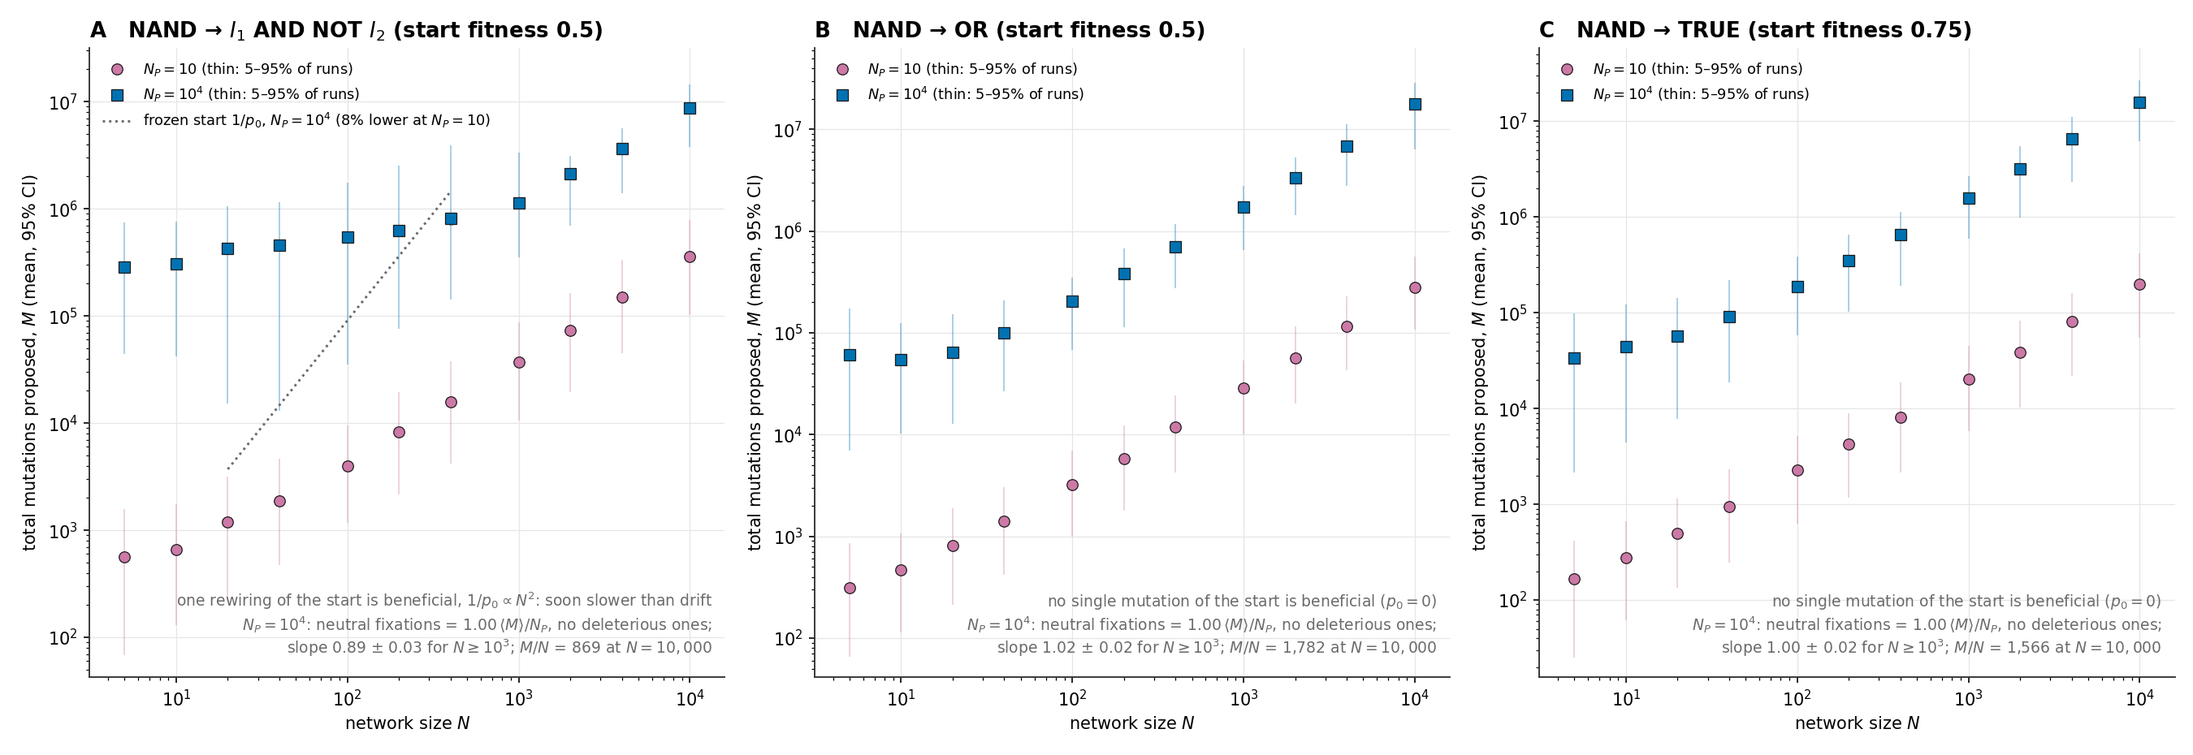
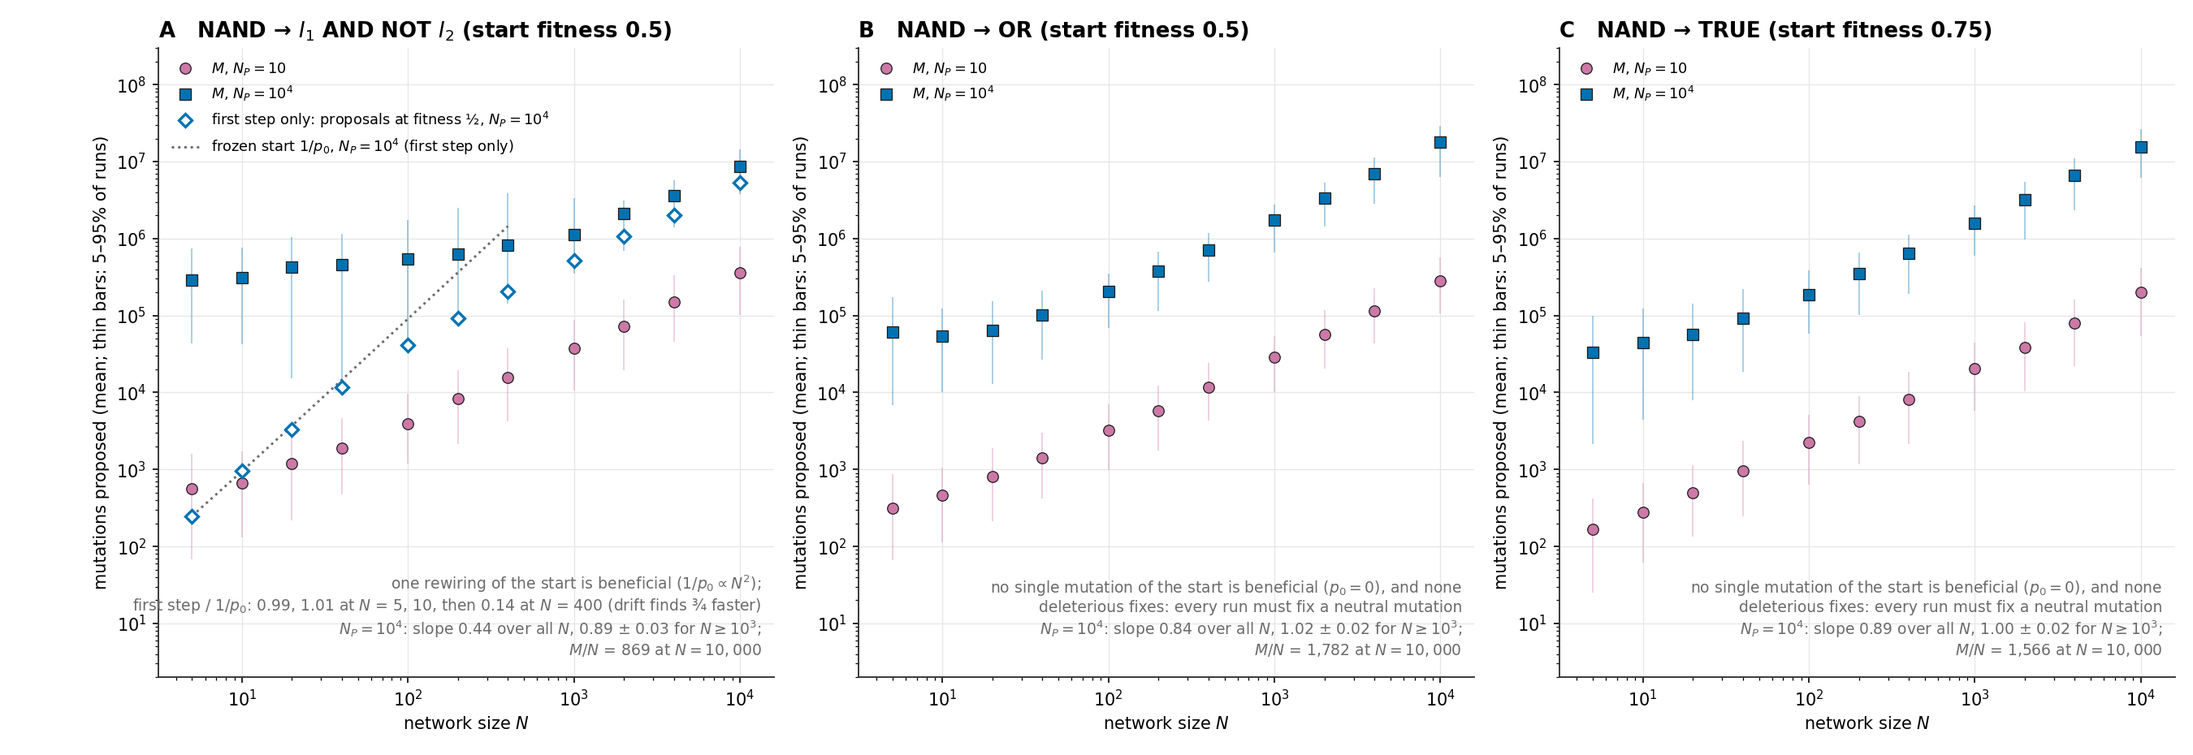
adversarial review 3: S3 compares frozen-start 1/p0 with the first step only (matches at N <= 10, 0.14x by N = 400); neutral-fixation ratio demoted to an identity; plain CIs with a binomial miss allowance; rw_cycle.py; S1/S3 wording and numbers corrected (32/32)

diff --git a/paper_replication/checks.py b/paper_replication/checks.py
@@ -33,14 +33,17 @@ def slope(r, lo, hi):
     return np.polyfit(np.log(r[m, 0]), np.log(r[m, 1]), 1)[0] if m.sum() >= 3 else np.nan
 
 
-def near(r, theory, rel):
-    """Every row: theory inside the CI widened by rel (relative)."""
+def near(r, theory):
+    """Theory against the plain 95% CI of every row. With n rows, ~5% miss by chance:
+    pass if the misses are no more than a Binomial(n, 0.05) count exceeds with p < 0.01."""
+    from scipy.stats import binom
     bad = []
     for N, v, _, _, lo, hi, _ in r:
         t = theory(N)
-        if not (lo * (1 - rel) <= t <= hi * (1 + rel)):
+        if not (lo <= t <= hi):
             bad.append(f'N={int(N)}: {v:.4g} [{lo:.4g}, {hi:.4g}] vs {t:.4g}')
-    return not bad, bad
+    k = int(binom.ppf(0.99, len(r), 0.05))
+    return len(bad) <= k, (bad + [f'{len(bad)} of {len(r)} outside (≤ {k} allowed)']) if bad else []
 
 
 def regression():
@@ -76,15 +79,15 @@ def regression():
 def parallel_1e4():
     th = lambda k: (lambda N: float(par_theory(N)[k]))
     big = lambda r: r[r[:, 0] >= 10**4]
-    for lab, args, k, rel in [('(2N+1) P(c) -> 13/3', ('n_comp', 'M'), 'pc2', 0.02),
-                              ('P(b|c) -> 4/13', ('n_ben', 'n_comp'), 'pbc', 0.03),
-                              ('P_fix -> pi(1/2)', ('fix_ben', 'n_ben'), 'pfix', 0.03)]:
+    for lab, args, k in [('(2N+1) P(c) -> 13/3', ('n_comp', 'M'), 'pc2'),
+                         ('P(b|c) -> 4/13', ('n_ben', 'n_comp'), 'pbc'),
+                         ('P_fix -> pi(1/2)', ('fix_ben', 'n_ben'), 'pfix')]:
         r = pooled('par_1e4', *args, nmax=10**7,
                    scale=(lambda n: 2 * n + 1) if k == 'pc2' else None)
         if not len(big(r)):
             check(f'par_1e4 pooled {lab} (N >= 1e4)', False, 'no data with n_comp')
             continue
-        ok, bad = near(big(r), th(k), rel)
+        ok, bad = near(big(r), th(k))
         check(f'par_1e4 pooled {lab} (N >= 1e4)', ok and len(big(r)),
               f'{len(big(r))} N; ' + ('; '.join(bad) if bad else
                                       f'e.g. {big(r)[-1, 1]:.4f} vs {th(k)(big(r)[-1, 0]):.4f}'))
@@ -101,7 +104,7 @@ def parallel_1e4():
           f'{m[:, 1].min():.3f}–{m[:, 1].max():.3f}')
     nb = series('par_1e4', 'n_ben', nmax=10**7)
     m = nb[nb[:, 0] >= 1000]
-    ok, bad = near(m, th('n_ben'), 0.06)
+    ok, bad = near(m, th('n_ben'))
     check('par_1e4 beneficial proposals match theory (N >= 1e3)', ok, '; '.join(bad) or
           f'{m[:, 1].min():.2f}–{m[:, 1].max():.2f} (2/pi(1/2) = {2 / PI_H:.2f})')
     fd = sum(load('par_1e4', N)['fix_del'].sum() for N in grid('par_1e4', 10**7))
@@ -111,12 +114,13 @@ def parallel_1e4():
         if N >= 10**4:
             d = load('par_1e4', N)
             rows.append(d['fix_neu'].mean() / (d['M'].mean() / 1e4))
-    check('par_1e4 neutral fixations = <M>/N_P (N >= 1e4)', all(0.95 <= x <= 1.05 for x in rows),
-          ', '.join(f'{x:.3f}' for x in rows))
+    # pi(0) = 1/N_P exactly, so this restates the neutral share of proposals: printed only
+    print('    (par_1e4 neutral fixations / (<M>/N_P), N >= 1e4: '
+          + ', '.join(f'{x:.3f}' for x in rows) + '; identity)')
     # structural f_b and computing edges: crossover from 3/8 and 5 to 4/13 and 13/3
     rw = pooled('par_1e4', 'fb_sum', 'fb_n', w='w_fb', nmax=10**7)
     rw = rw[rw[:, 0] >= 40]                       # theory ignores the small-N detour via fitness 1/4
-    ok, bad = near(rw, th('fb'), 0)
+    ok, bad = near(rw, th('fb'))
     check('par_1e4 structural f_b (pooled, thinning-weighted) follows 3/8 -> 4/13 (N >= 40)', ok and len(rw),
           '; '.join(bad) or ', '.join(f'{int(N)}: {v:.3f}' for N, v, *_ in rw[::3]))
     ru = pooled('par_1e4', 'fb_sum', 'fb_n', nmax=10**7)
@@ -124,7 +128,7 @@ def parallel_1e4():
         print(f'    (unweighted pooled f_b at N = {int(ru[-1, 0]):,}: {ru[-1, 1]:.3f}; thinning artefact ~0.328)')
     rc = pooled('par_1e4', 'ce_sum', 'n_res', nmax=10**7)
     rc = rc[rc[:, 0] >= 40]                       # theory ignores the small-N detour via fitness 1/4
-    ok, bad = near(rc, th('ce'), 0)
+    ok, bad = near(rc, th('ce'))
     check('par_1e4 computing edges per resident (pooled) follow 5 -> 13/3 (N >= 40)', ok,
           '; '.join(bad) or f'{rc[0, 1]:.3f} … {rc[-1, 1]:.3f}')
     # M: exact Eq. 3, shape, stages
@@ -183,7 +187,7 @@ def random_walk():
     check('rw pooled P(c) / computing-edge fraction = 0.50 ± 0.05 for N >= 1e3 (cycle redraws)',
           all(0.45 < x < 0.55 for x in big), f'ratio {min(big):.3f}–{max(big):.3f} (all N: {min(ratio):.3f}–{max(ratio):.3f})')
     s = slope(pc, 1000, 1e5)
-    check('rw pooled P(c) ~ constant over 1e3–1e5 (|slope| < 0.06)', abs(s) < 0.06,
+    check('rw pooled P(c) nearly constant over 1e3–1e5 (|slope| < 0.06)', abs(s) < 0.06,
           f'slope {s:+.3f}, values {pc[pc[:, 0] >= 1000, 1].min():.3f}–{pc[pc[:, 0] >= 1000, 1].max():.3f}')
     pb = pooled('rw', 'n_ben', 'n_comp', nmax=10**7, scale=lambda n: n)
     m = pb[pb[:, 0] >= 1000]
@@ -233,8 +237,20 @@ def other_targets():
         rows.append((N, d['M'].mean(), ip))
     check('I1 AND NOT I2: <M> < frozen-start 1/p0 (N >= 40)', all(m < ip for _, m, ip in rows),
           ', '.join(f'N={N}: {m:,.0f} vs {ip:,.0f}' for N, m, ip in rows))
-    # N_P = 1e4 (Fig. S3, blue): neutral route, no deleterious fixation, slope as printed
+    # N_P = 1e4 (Fig. S3, blue). Neutral fixations = <M>/N_P is an identity here (pi(0) = 1/N_P
+    # exactly; it only restates the neutral share of proposals), so it is printed, not checked.
     from paper_replication.figures import wls_exponent
+    q = []
+    for N in grid('andnot_1e4', 400):
+        h = load('andnot_1e4', N)['counts'][:, 2].mean()
+        q.append((N, h * enumerate_p(parallel(N), 1e4, ANDNOT)[0]))
+    if q:
+        small = [x for N, x in q if N <= 10]
+        large = [x for N, x in q if N >= 100]
+        check('andnot_1e4 first step (proposals at fitness 1/2) = frozen-start 1/p0 within 5% for N <= 10, '
+              'below 0.5 x 1/p0 for N >= 100 (drift)',
+              all(0.95 <= x <= 1.05 for x in small) and all(x < 0.5 for x in large),
+              ', '.join(f'{N}: {x:.2f}' for N, x in q))
     for tag in ('andnot', 'or', 'true'):
         exp = f'{tag}_1e4'
         Ns = grid(exp, 10**7)
@@ -242,10 +258,12 @@ def other_targets():
             continue
         rat = [load(exp, N)['fix_neu'].mean() / (load(exp, N)['M'].mean() / 1e4) for N in Ns if N >= 1000]
         dele = sum(int(load(exp, N)['fix_del'].sum()) for N in Ns)
+        noneu = sum(int((load(exp, N)['fix_neu'] < 1).sum()) for N in Ns)
         ex = wls_exponent(series(exp, 'M', nmax=10**7), 1000)
-        check(f'{exp}: neutral fixations = <M>/N_P ± 5% (N >= 1e3), no deleterious fixation, slope in [0.85, 1.1]',
-              all(0.95 <= x <= 1.05 for x in rat) and dele == 0 and 0.85 <= ex[0] <= 1.1,
-              f'ratio {min(rat):.3f}–{max(rat):.3f}; deleterious {dele}; slope {ex[0]:.3f} ± {ex[1]:.3f}')
+        print(f'    ({exp}: neutral fixations / (<M>/N_P), N >= 1e3: {min(rat):.3f}–{max(rat):.3f}; identity)')
+        check(f'{exp}: no deleterious fixation, a neutral fixation in every run, slope in [0.85, 1.1] (N >= 1e3)',
+              dele == 0 and noneu == 0 and 0.85 <= ex[0] <= 1.1,
+              f'deleterious {dele}; runs without a neutral fixation {noneu}; slope {ex[0]:.3f} ± {ex[1]:.3f}')
 
 
 def titles():

diff --git a/paper_replication/figures.py b/paper_replication/figures.py
@@ -902,7 +902,7 @@ def figS1(outdir, big):
     ax.legend(loc='upper right', fontsize=9)
     note(ax, '$M$ counts proposals, not time. The exact theory assumes selection;\n'
              'the random walk has none (it also steps down in fitness).', loc=(0.02, 0.03), ha='left')
-    title(ax, 'A   random walk from the parallel start: $M \\propto N$')
+    title(ax, 'A   random walk from the parallel start: $M/N$ levels off near 5')
 
     ax = axs[1]; loglog(ax, ylabel='probability per proposed mutation (pooled)')
     for exp, hollow, tag in [('rw', False, 'random walk'), ('par_1e4', True, 'selection')]:
@@ -979,6 +979,15 @@ def figS2(outdir, big):
     save(fig, 'figS2_distributions.png', outdir)
 
 
+def _level_mean(exp, m):
+    """Rows (N, mean proposals made at fitness m/4, ...) in the series() layout (no CI)."""
+    rows = []
+    for N in grid(exp):
+        x = load(exp, N)['counts'][:, m].astype(float)
+        rows.append((N, x.mean(), np.nan, np.nan, np.nan, np.nan, len(x)))
+    return np.array(rows) if rows else np.zeros((0, 7))
+
+
 def _start_fitness(target):
     return bin(~(0b0111 ^ target) & 0xF).count('1') / 4
 
@@ -988,26 +997,40 @@ def figS3(outdir, big):
     fig, axs = plt.subplots(1, 3, figsize=(18, 6.2))
     for k, (ax, (tag, lab, tgt)) in enumerate(zip(axs, [
             ('andnot', '$I_1$ AND NOT $I_2$', ANDNOT), ('or', 'OR', OR), ('true', 'TRUE', TRUE)])):
-        loglog(ax, ylabel='total mutations proposed, $M$ (mean, 95% CI)')
+        loglog(ax, ylabel='mutations proposed (mean; thin bars: 5–95% of runs)')
         for Np, exp, col, mk in [(10.0, f'{tag}_10', PINK, 'o'), (1e4, f'{tag}_1e4', BLUE, 's')]:
             dots(ax, series(exp, 'M'), col, marker=mk, spread=True,
-                 label=f'$N_P = {"10" if Np == 10 else "10^4"}$ (thin: 5–95% of runs)')
+                 label=f'$M$, $N_P = {"10" if Np == 10 else "10^4"}$')
+        lines = []
         if enumerate_p(parallel(20), 10.0, tgt)[0] > 0:
-            Ns = [n for n in grid(f'{tag}_10') if 20 <= n <= 400]
-            ax.plot(Ns, [1 / enumerate_p(parallel(n), 1e4, tgt)[0] for n in Ns], color=MUTED, ls=':',
-                    lw=1.4, label='frozen start $1/p_0$, $N_P = 10^4$ (8% lower at $N_P = 10$)')
-            txt = 'one rewiring of the start is beneficial, $1/p_0 \\propto N^2$: soon slower than drift'
+            # The frozen start predicts only the first step (1/2 -> 3/4): compare it with the
+            # proposals made at fitness 1/2, not with M.
+            h = _level_mean(f'{tag}_1e4', 2)
+            dots(ax, h, BLUE, hollow=True, marker='D', ms=5.5, ci=False,
+                 label='first step only: proposals at fitness ½, $N_P = 10^4$')
+            Ns = [n for n in grid(f'{tag}_1e4') if n <= 400]
+            ip = np.array([1 / enumerate_p(parallel(n), 1e4, tgt)[0] for n in Ns])
+            ax.plot(Ns, ip, color=MUTED, ls=':', lw=1.4,
+                    label='frozen start $1/p_0$, $N_P = 10^4$ (first step only)')
+            r = {int(n): v for n, v in h[:, :2]}
+            q = [(n, r[n] / v) for n, v in zip(Ns, ip) if n in r]
+            lines.append('one rewiring of the start is beneficial ($1/p_0 \\propto N^2$);\n'
+                         'first step / $1/p_0$: ' + ', '.join(f'{x:.2f}' for _, x in q[:2])
+                         + f' at $N$ = {q[0][0]}, {q[1][0]}, then {q[-1][1]:.2f} at $N$ = {q[-1][0]}'
+                         ' (drift finds ¾ faster)')
         else:
-            txt = 'no single mutation of the start is beneficial ($p_0 = 0$)'
+            lines.append('no single mutation of the start is beneficial ($p_0 = 0$), and none\n'
+                         'deleterious fixes: every run must fix a neutral mutation')
         rb = series(f'{tag}_1e4', 'M')
         if len(rb):
-            d = load(f'{tag}_1e4', int(rb[-1, 0]))
+            ex_all = wls_exponent(rb, 0)
             ex = wls_exponent(rb, 1000)
-            txt += (f'\n$N_P = 10^4$: neutral fixations = {d["fix_neu"].mean() / (d["M"].mean() / 1e4):.2f}'
-                    f'$\\,\\langle M\\rangle/N_P$, no deleterious ones;\n'
-                    + (f'slope {ex[0]:.2f} ± {ex[1]:.2f} for $N \\geq 10^3$; ' if ex else '')
-                    + f'$M/N$ = {rb[-1, 1] / rb[-1, 0]:,.0f} at $N = {int(rb[-1, 0]):,}$')
+            lines.append(f'$N_P = 10^4$: slope {ex_all[0]:.2f} over all $N$, '
+                         f'{ex[0]:.2f} ± {ex[1]:.2f} for $N \\geq 10^3$;\n'
+                         f'$M/N$ = {rb[-1, 1] / rb[-1, 0]:,.0f} at $N = {int(rb[-1, 0]):,}$')
+        txt = '\n'.join(lines)
         note(ax, txt, loc=(0.98, 0.03))
+        ax.set_ylim(2, 3e8); ax.keep_ylim = True
         ax.legend(loc='upper left', fontsize=8.5)
         title(ax, f'{"ABC"[k]}   NAND → {lab} (start fitness {_start_fitness(tgt):g})')
     save(fig, 'figS3_other_targets.png', outdir)

diff --git a/paper_replication/rw_cycle.py b/paper_replication/rw_cycle.py
@@ -1,0 +1,38 @@
+"""Fig S1B, why per-proposal P(c) is about half the computing-edge fraction in the random walk.
+Usage: python -m paper_replication.rw_cycle N steps   (e.g. 1000 20000)"""
+import sys, random
+import numpy as np
+from bottleneck_replication.starts import parallel
+from faster_circuit.observe import _module
+N = int(sys.argv[1]); steps = int(sys.argv[2]); random.seed(1)
+g = list(np.asarray(parallel(N)))
+E = len(g); nodes = N + 2
+def anc_of(src, g):          # gates reachable upstream from node src
+    seen, st = set(), [src]
+    while st:
+        v = st.pop()
+        if v < 2 or v in seen: continue
+        seen.add(v); st += [g[2*(v-2)], g[2*(v-2)+1]]
+    return seen
+def cyclic(g, e, s):
+    if e == E - 1: return False
+    gate = e // 2 + 2
+    return gate in anc_of(s, g) or s == gate
+def propose(g):
+    while True:
+        e = random.randrange(E); gate = None if e == E-1 else e//2+2
+        s = random.choice([v for v in range(nodes) if v != g[e] and v != gate])
+        if not cyclic(g, e, s): return e, s
+for _ in range(steps):
+    e, s = propose(g); g[e] = s
+_, mod = _module(g); mod = set(int(x) for x in mod)
+comp = [e for e in range(E) if e == E-1 or (e//2+2) in mod]
+ok = {True: [0, 0], False: [0, 0]}
+for _ in range(20000):
+    e = random.randrange(E); gate = None if e == E-1 else e//2+2
+    s = random.choice([v for v in range(nodes) if v != g[e] and v != gate])
+    c = e in set(comp); ok[c][0] += 1; ok[c][1] += not cyclic(g, e, s)
+fc = len(comp)/E
+ac, an = ok[True][1]/ok[True][0], ok[False][1]/ok[False][0]
+print(f'N={N}: computing edge fraction {fc:.3f}; acyclic share: computing {ac:.3f}, other {an:.3f}; '
+      f'predicted per-proposal P(c) {fc*ac/(fc*ac+(1-fc)*an):.3f}')

diff --git a/paper_replication/CHANGES.md b/paper_replication/CHANGES.md
@@ -202,20 +202,26 @@ all automated.
   distribution shifts with N.
 
 ### Fig S1 (random walk)
-- **A:** shown as M/N, with selection (exact Eq. 3) for comparison.
+- **A:** shown as M/N, with selection (exact Eq. 3) for comparison. M/N
+  levels off at 4.7–5.2 for N ≥ 10³ (exponent 0.97 ± 0.02 over 10³–10⁵).
   - The random walk needs about 0.63× as many proposals as selection for
     N ≥ 10³.
   - The comparison is in proposals, not time.
   - The exact theory does not cover the random walk, which also steps down in
     fitness.
 - **B, which was "module grows as N^0.83":** replaced by pooled P(c) and P(b|c).
-  - Without selection, P(c) levels off at about 0.06 per proposal (slope
-    −0.04 over N = 10³–10⁵): the module is a fixed fraction of the network.
+  - Without selection, P(c) is nearly constant, falling slowly from 0.069 to
+    0.059 per proposal over N = 10³–10⁵ (slope −0.040 ± 0.009). The module stays
+    close to a fixed fraction of the network.
   - The computing-edge fraction itself is about 0.12. P(c) is about half of
     that because computing gates sit upstream: in random-walk networks about 60% of
     draws on computing edges close a cycle against about 10% on other edges, and the redraw moves the proposal
-    elsewhere (checked directly on evolved random-walk networks).
-  - P(b|c) falls as 1/N. Eq. 2's factors swap roles compared with selection.
+    elsewhere. `rw_cycle.py` shows the mechanism on single random-walk networks
+    (acyclic share 0.18–0.54 on computing edges against 0.85–0.99 on others). It
+    does not predict the factor 0.5 itself, which varies 0.2–0.7 between single
+    networks; the 0.50 ± 0.05 check band is descriptive, set from the data.
+  - P(b|c) approaches 1/N asymptotically: N·P(b|c) rises from 34 to 47 and is
+    flat only from N = 2·10⁴. Eq. 2's factors swap roles compared with selection.
 
 ### Fig S2 (distributions, parallel start)
 - **A/B:** the exact distribution, a sum of two geometric waits with the Eq. 3
@@ -230,26 +236,41 @@ all automated.
   each title: ½, ½ and ¾.
 - **New: the same targets at N_P = 10⁴** (`andnot_1e4`, `or_1e4`, `true_1e4`, 500
   runs, N = 5 – 10⁵).
-- **From the parallel NAND start, frozen-genotype theory does not describe these
-  runs:**
-  - OR and TRUE have no beneficial single mutation (p₀ = 0).
-  - For I₁∧¬I₂, one rewiring in N(2N+1) is beneficial, so 1/p₀ ∝ N² (83,409 at
-    N = 100 for N_P = 10, against an observed ⟨M⟩ of 3,955). At N_P = 10⁴ the
-    direct step is faster than the observed ⟨M⟩ only below N ≈ 300.
-- **At N_P = 10⁴, every target is reached through neutral fixations:**
-  - Neutral fixations = ⟨M⟩/N_P within 5% for N ≥ 10³ (1.00 at N = 10⁵); no
-    deleterious mutation fixes in any run.
-  - For N ≥ 10³ the slopes are 0.96 ± 0.02 (I₁∧¬I₂), 0.99 ± 0.01 (OR) and
-    1.00 ± 0.01 (TRUE); M/N = 855, 1,660 and 1,566 at N = 10⁵, i.e.
-    0.09–0.17 N_P.
-  - M is 24–510× larger than at N_P = 10: with strong selection the runs wait
-    for rare neutral fixations (probability 1/N_P per proposal) instead of
-    drifting.
-  - From I₁∧¬I₂ at small N, the first step to fitness ¾ comes quickly and
-    92–99.9% of proposals (N ≤ 100) are spent at ¾; at large N most are spent
-    at ½ (61% at N = 10⁴).
-- So the paper's "linear scaling for other targets" holds at both N_P, but
-  through drift, not through the frozen-start mechanism of Eq. 2.
+- **From the parallel NAND start:**
+  - OR and TRUE have no beneficial single mutation (p₀ = 0). No deleterious
+    mutation fixes in any run either, so every run must fix at least one neutral
+    mutation before it can improve.
+  - For I₁∧¬I₂, one rewiring in N(2N+1) is beneficial, so 1/p₀ ∝ N². The
+    frozen start predicts only the first step (½ → ¾). The figure compares it
+    with the proposals made at fitness ½ (hollow diamonds), not with M.
+  - At N_P = 10⁴ that first step matches the frozen start exactly for small N:
+    247 and 961 proposals against 1/p₀ = 249 and 949 at N = 5 and 10. It then
+    falls below it: 0.90, 0.80, 0.46, 0.26 and 0.14 × 1/p₀ at N = 20, 40, 100,
+    200 and 400. That is the drift signature: neutral changes open new routes to ¾
+    faster than the single frozen-start rewiring.
+  - At N_P = 10, ⟨M⟩ for the whole path is already far below 1/p₀ (3,955
+    against 83,409 at N = 100).
+- **The step to fitness 1 dominates at small N, the first step at large N**
+  (I₁∧¬I₂, N_P = 10⁴): 92–99.9% of proposals are made at ¾ for N ≤ 100, and 61%
+  at ½ by N = 10⁴.
+- **Neutral fixations = ⟨M⟩/N_P (within 1% for N ≥ 10³) is an identity**, not
+  evidence: π(0) = 1/N_P exactly, so the ratio is just the share of proposals that
+  are neutral. The AND runs (par_1e4) show the same ratio while following the
+  frozen two-step Eq. 3. It is printed by checks.py, not checked.
+- **Scaling at N_P = 10⁴:**
+  - M is roughly linear only at large N. The slopes are 0.96 ± 0.02 (I₁∧¬I₂),
+    0.99 ± 0.01 (OR) and 1.00 ± 0.01 (TRUE) for N = 10³–10⁵. Over all N they are
+    0.58, 0.91 and 0.93.
+  - For I₁∧¬I₂, M/N falls from 57,610 at N = 5 to 855 at N = 10⁵, and the
+    slope over 10³–10⁴ alone is 0.89. OR and TRUE are near-linear from N ≈ 100.
+  - M/N = 855, 1,660 and 1,566 at N = 10⁵, i.e. 0.09–0.17 N_P.
+  - M is 24–510× larger than at N_P = 10. Both populations need neutral steps,
+    but at N_P = 10 the runs fix 12–41× more neutral mutations per run for
+    N ≥ 10³ (2–5× at N = 5), and deleterious ones too.
+- So the paper's "linear scaling for other targets" holds asymptotically at
+  both N_P. At N_P = 10⁴ it is reached through neutral fixations, not through
+  the frozen-start mechanism of Eq. 2, except for the first step of I₁∧¬I₂ at
+  N ≤ 10.
 
 ### Fig S4 / S5 (N_P = 10)
 - **A:**
@@ -330,9 +351,10 @@ the random walk are fits over curved data that the exact theory does not cover.
   - Pooled, N ≥ 10⁴: (2N+1)P(c) = 4.338 (13/3), P(b|c) = 0.313 (4/13),
     P_fix = 0.384 (π(½) = 0.393).
   - Fixed beneficial 2.000–2.006; beneficial proposals 4.9–5.3 (2/π(½) = 5.08);
-    no deleterious fixation; neutral fixations / (⟨M⟩/N_P) = 0.99–1.00.
-  - Structural f_b falls from 0.371 to 0.311 (3/8 → 4/13); computing edges per
-    resident from 4.94 to 4.32 (5 → 13/3).
+    no deleterious fixation. Neutral fixations / (⟨M⟩/N_P) = 0.99–1.00 is printed
+    only: it is an identity (π(0) = 1/N_P).
+  - Structural f_b falls from 0.372 (N = 40) to 0.303 (N = 4·10⁵) (3/8 → 4/13); computing edges per
+    resident from 4.97 (N = 40) to 4.32 (5 → 13/3).
   - The rejected per-run estimator gives P(b|c) = 0.40, not 4/13, as predicted.
 - **Parallel start, N_P = 10:** typical-run N·P(c) flat (2.8–3.1); pooled P(c)
   flat (slope −0.08); pooled P(b|c) slope −0.92; N·P(c)P(b|c) = 0.72–0.79.
@@ -345,8 +367,11 @@ the random walk are fits over curved data that the exact theory does not cover.
 - **Chain start, N_P = 10⁴:** median M 20–24 for N ≥ 21; median slope
   over 10⁴–10⁶ has 95% CI [−0.023, +0.014]; tail x·P(M > x) = 5.0–5.8 for
   x = 200–5000; the distributions at N = 1001 and 10⁶ agree (KS p = 0.57).
-- **I₁∧¬I₂:** ⟨M⟩ is far below the frozen-start 1/p₀ (e.g. 3,955 against
-  83,409 at N = 100).
+- **I₁∧¬I₂:** at N_P = 10, ⟨M⟩ is far below the frozen-start 1/p₀ (e.g. 3,955
+  against 83,409 at N = 100). At N_P = 10⁴ the first step equals 1/p₀ within
+  5% for N ≤ 10 and is below 0.5 × 1/p₀ for N ≥ 100.
+- **Other targets, N_P = 10⁴:** no deleterious fixation, at least one neutral
+  fixation in every run, slope 0.96–1.00 for N ≥ 10³.
 
 Two random-walk checks were written from the review's predictions
 (P(c) ≈ computing-edge fraction ≈ 0.12, N·P(b|c) ≈ 15–30) and failed on the
@@ -360,6 +385,15 @@ The final adversarial review also found that the regression check compared
 against HEAD, which after the commit was the rerun itself; it is now pinned to
 80cc677. The f_b and computing-edge checks had widened their CIs by 3.5% and
 1.2%; they now use the plain CI from N = 40.
+
+The third adversarial review found that the remaining theory checks still
+widened their CIs (2–6%). Every theory-vs-CI check now uses the plain 95% CI and
+allows as many misses as chance explains: no more than a Binomial(n, 0.05) count
+exceeds with p < 0.01 (2 of 7 rows, 3 of 10). Two rows miss in total (P_fix at
+N = 10⁴; beneficial proposals at N = 10⁴). The same review found that the S3
+check "neutral fixations = ⟨M⟩/N_P" (and its par_1e4 twin) was an identity; both
+are now printed, not checked. They are replaced by the first-step comparison
+against 1/p₀ and by "a neutral fixation in every run". The count stays at 32.
 
 ## 5. Not done
 - Splitting n_comp and n_ben by fitness level, which would test Eq. 2 step by

diff --git a/paper_replication/README.md b/paper_replication/README.md
@@ -22,6 +22,7 @@ python -m paper_replication.run [workers] [exp ...]   # simulations -> results/
 python -m paper_replication.checks                    # pass/fail checks against theory
 python -m paper_replication.figures 1e4               # -> figs_1e4/
 python -m paper_replication.figures 1e6               # -> figs_1e6/
+python -m paper_replication.rw_cycle 1000 3000        # Fig S1B: cycle redraws on computing edges
 ```
 
 ## What was simulated
